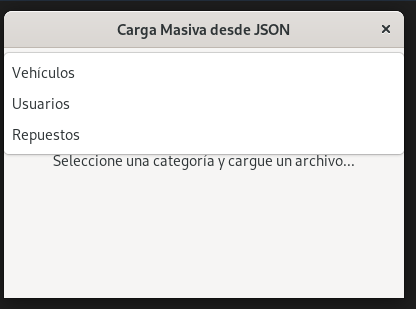
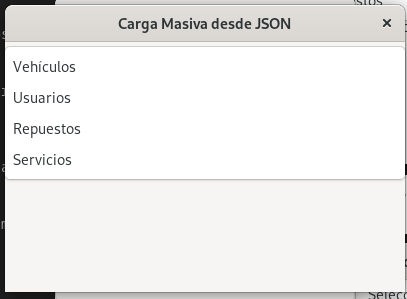
Se agregaron manuales

diff --git a/Fase3/code/structures/tree_binary.cs b/Fase3/code/structures/tree_binary.cs
@@ -127,24 +127,27 @@ namespace code.structures.tree_binary
 
 
 
-        // Método para generar el archivo .dot para Graphviz
+       // Método para generar el archivo .dot para Graphviz en InOrden
         public string GraficarGraphviz()
         {
             StringBuilder sb = new StringBuilder();
             sb.AppendLine("digraph BST {");
             sb.AppendLine("    node [shape=rectangle];");
-            if (raiz != null)
-            {
-                GenerarDotRecursivo(raiz, sb);
-            }
+
+            // Llamar al método recursivo para generar el archivo .dot en InOrden
+            GenerarDotRecursivoInOrden(raiz, sb);
+
             sb.AppendLine("}");
             return sb.ToString();
-        }
+}
 
-        private void GenerarDotRecursivo(Nodo_Servicio nodo, StringBuilder sw)
+        private void GenerarDotRecursivoInOrden(Nodo_Servicio nodo, StringBuilder sw)
         {
             if (nodo != null)
             {
+                // Recorrer el subárbol izquierdo
+                GenerarDotRecursivoInOrden(nodo.Izquierda, sw);
+
                 // Formato del nodo con toda la información
                 string nodoLabel = $"\"{nodo.Id}\" [label=\"Id: {nodo.Id}\\nRepuesto: {nodo.Id_Repuesto}\\nVehiculo: {nodo.Id_Vehiculo}\\nDetalles: {nodo.Detalles}\\nCosto: {nodo.Costo}\"]";
                 sw.AppendLine($"    {nodoLabel};");
@@ -153,13 +156,14 @@ namespace code.structures.tree_binary
                 if (nodo.Izquierda != null)
                 {
                     sw.AppendLine($"    \"{nodo.Id}\" -> \"{nodo.Izquierda.Id}\";");
-                    GenerarDotRecursivo(nodo.Izquierda, sw);
                 }
                 if (nodo.Derecha != null)
                 {
                     sw.AppendLine($"    \"{nodo.Id}\" -> \"{nodo.Derecha.Id}\";");
-                    GenerarDotRecursivo(nodo.Derecha, sw);
                 }
+
+                // Recorrer el subárbol derecho
+                GenerarDotRecursivoInOrden(nodo.Derecha, sw);
             }
         }
 

diff --git a/Fase3/code/interfaces/GestionEntidades.cs b/Fase3/code/interfaces/GestionEntidades.cs
@@ -185,16 +185,18 @@ namespace code.interfaces
         }
         private void MostrarMensajeError(string mensaje)
         {
-            MessageDialog md = new MessageDialog(this, DialogFlags.Modal, MessageType.Error, ButtonsType.Ok, mensaje);
-            md.Run();
-            md.Destroy();
+            using (MessageDialog md = new MessageDialog(this, DialogFlags.Modal, MessageType.Error, ButtonsType.Ok, mensaje))
+            {
+                md.Run();
+            }
         }
 
         private void MostrarMensaje(string mensaje)
         {
-            MessageDialog md = new MessageDialog(this, DialogFlags.Modal, MessageType.Info, ButtonsType.Ok, mensaje);
-            md.Run();
-            md.Destroy();
+            using (MessageDialog md = new MessageDialog(this, DialogFlags.Modal, MessageType.Info, ButtonsType.Ok, mensaje))
+            {
+                md.Run();
+            }
         }
 
         private void LimpiarCampos()

diff --git a/Fase3/Manual tecnico.md b/Fase3/Manual tecnico.md
@@ -77,14 +77,14 @@ Busca el nodo con el ID especificado
 - Es especialmente útil para depuración y visualización de la estructura
 
 
-### Lista Enlazada Simple
+### BlockChain
 
 ## Estructura Básica
 Implementa una **lista enlazada simple** para administrar usuarios con sus datos personales.
 
 ### Componentes Principales
 
-#### 1. Clase `Nodo_Usuario`
+#### 1. Clase `User`
 
 - `Id:`Identificador único
 - `Nombres:` Nombre(s) del usuario
@@ -92,38 +92,62 @@ Implementa una **lista enlazada simple** para administrar usuarios con sus datos
 - `Correo:`  Correo electrónico
 - `Edad :` Edad en años
 - `Contrasenia:` Contraseña del
-- `Nodo_Usuario? Siguiente:` Enlace al siguiente nodo
 
-### 2. Clase ListaEnlazada
+
+### 2. Clase `Block`
+Representa un bloque en la cadena.
+
+Propiedades:
+- `Index`: Número del bloque en la cadena.
+- `Timestamp`: Fecha y hora de creación del bloque.
+- `Data`: Información del usuario en formato JSON.
+- `Nonce`: Número utilizado para la prueba de trabajo.
+- `PreviousHash`: Hash del bloque anterior.
+- `Hash`: Hash único del bloque actual.
+- `Next`: Referencia al siguiente bloque en la cadena.
+
+Métodos:
+
+- `CalculateHash()`: Calcula el hash del bloque usando SHA-256.
+- `MineBlock()`: Realiza la prueba de trabajo para encontrar un hash que comience con "0000".
+
+### 3. Clase `Blockchain`
+
+Representa la cadena de bloques como una lista simplemente enlazada.
+Propiedades:
+- `Head`: Referencia al primer bloque de la cadena.
+
+Métodos principales:
+- `AddBlock()`: Agrega un nuevo bloque a la cadena.
+- `GenerateJson()`: Genera una representación JSON de toda la cadena.
+- `GenerateDot()`: Genera un archivo DOT para visualizar la cadena con Graphviz.
+- `AnalyzeBlockchain()`: Verifica la integridad de la cadena.
+- `Buscar()`: Busca un usuario por ID.
+- `ActualizarUsuario()`: Actualiza los datos de un usuario en la cadena.
+- `ObtenerMaxID()`: Obtiene el ID más alto en la cadena.
+- `ExisteCorreo()`: Verifica si un correo ya existe en la cadena.
+- `ValidarContrasenia()`: Valida la contraseña de un usuario.
+- `BuscarPorCorreo()`: Busca un usuario por correo.
+
 #### Funcionamiento Principal
-**Agregar Usuarios**
+- **Agregar Bloques**:
+Se crea un nuevo bloque con los datos del usuario.
+Si es el primer bloque, se establece como la cabeza de la cadena.
+Si no, se recorre la cadena hasta el último bloque y se enlaza el nuevo bloque.
 
-*Cómo funciona:*
-- Crea un nuevo nodo con los datos
+- **Prueba de Trabajo**:
+Cada bloque realiza una prueba de trabajo para encontrar un hash que comience con "0000".
+Esto asegura la integridad y seguridad de la cadena.
 
-- Si la lista está vacía, lo establece como cabeza
+- **Búsqueda y Actualización**:
+Los usuarios pueden buscarse por ID o correo.
+Los datos de un usuario pueden actualizarse, recalculando los hashes de los bloques afectados.
 
-- Si no, recorre hasta el final y lo añade
+- **Validación de la Cadena**:
+Se verifica que los hashes de los bloques sean válidos y que los enlaces entre bloques sean consistentes.
 
-**Búsquedas**
-
-*Características:*
-
-- Busca por correo (case-insensitive) o por ID
-
-- Retorna el nodo completo o null
-
-- ExisteCorreo devuelve verdadero/falso.
-
-**Eliminar Usuarios**
-
-*Proceso:*
-- Busca el nodo con el ID
-
-- Reconfigura los enlaces:
-
-   Si es la cabeza: mueve la cabeza al siguiente
- Si no: el nodo anterior apunta al siguiente del eliminado
+- **Visualización**:
+La cadena puede representarse en formato JSON o como un grafo DOT para su visualización con Graphviz.
 
 ### Árbol AVL
 
@@ -208,88 +232,71 @@ Casos:
 - ObtenerAltura()	Calcula altura de un nodo
 - ObtenerBalance()	Calcula factor de balanceo (altura izquierda - altura derecha)
 
-### Árbol B
+### ARBOL DE MERKLE
 
 #### Estructura Básica
 Implementa un **árbol B** de orden 5 para almacenar y gestionar facturas con operaciones eficientes de inserción, búsqueda y eliminación.
 
-####  Componentes Principales
+###  Componentes Principales
 
 #### 1. Clase `Factura`
 - `Id`: Identificador único
 - `Id_Servicio`: ID del servicio asociado
 - `Total`:  Monto total de la factura
+- `Fecha`: Fecha de emisión de la factura.
+- `MetodoPago`: Método de pago utilizado.
 
-2. Clase NodoArbolB
+#### 2. Clase `MerkleNode`
 
-    - `List<Factura> Claves:` Facturas almacenadas (máx. 4)
-    - `List<NodoArbolB> Hijos:` Punteros a hijos (máx. 5)
-    - `EsHoja:` Indica si es nodo hoja
-    
-    Métodos auxiliares:
+Representa un nodo en el árbol de Merkle.
 
-    - `public bool EstaLleno()`:  Verifica si tiene 4 claves
-    - `public bool TieneMinimoClaves()`: Verifica si tiene al menos 2 claves.
+Propiedades:
+- `Hash`: Hash del nodo (calculado a partir de los datos o de los hashes de los hijos).
+- `Left`: Referencia al hijo izquierdo.
+- `Right`: Referencia al hijo derecho.
+- `Factura`: Factura asociada (solo para nodos hoja).
 
+Constructores:
+- `Nodo hoja`: Se crea a partir de una factura.
+- `Nodo interno`: Se crea combinando los hashes de los hijos izquierdo y derecho.
+
+Métodos:
+- `CalculateHash()`: Calcula el hash combinado de los hijos izquierdo y derecho.
  
- 3. Clase ArbolB
+#### 3. Clase `MerkleTree`
+Representa el árbol de Merkle completo.
 
-**Operaciones Principales**
+Propiedades:
+- `Leaves`: Lista de nodos hoja (facturas).
+- `Root`: Nodo raíz del árbol.
 
-- **Inserción**
+Métodos principales:
+- `Insert()`: Inserta una nueva factura en el árbol.
+- `BuildTree()`: Reconstruye el árbol a partir de las hojas.
+- `GenerateDot()`: Genera un archivo DOT para visualizar el árbol con Graphviz.
+- `Buscar()`: Busca una factura por su ID.
+- `ObtenerFacturasPorServicios()`: Obtiene facturas asociadas a una lista de IDs de servicios.
+- `Eliminar()`: Elimina una factura por su ID y reconstruye el árbol.
 
- *Proceso:*
+#### Funcionamiento Principal
+- **Inserción de Facturas:**
+Se crea una factura y un nodo hoja con su hash.
+La factura se agrega a la lista de hojas.
+El árbol se reconstruye para actualizar los hashes de los nodos internos y la raíz.
 
-- Si la raíz está llena: Crea nueva raíz.
+- **Construcción del Árbol**:
+A partir de las hojas, se agrupan nodos en pares y se crean nodos internos combinando sus hashes.
+Este proceso se repite hasta que solo queda un nodo, que se convierte en la raíz.
 
-- Divide la raíz actual
+- **Verificación de Integridad**:
+Cada nodo contiene un hash que depende de sus hijos. Si los datos de una factura cambian, el hash de la raíz también cambia, lo que permite detectar modificaciones.
 
-- Inserta recursivamente manteniendo el orden
+- **Búsqueda y Eliminación:**
+Las facturas pueden buscarse por su ID recorriendo la lista de hojas.
+Para eliminar una factura, se elimina su nodo hoja y se reconstruye el árbol.
 
-*Características:*
-
-- Complejidad: O(log n)
-
-Auto-balanceante
-- **Búsqueda**
- *Funcionamiento:*
-
-- Búsqueda binaria dentro de cada nodo
-
-- Recorre hacia abajo según comparación de IDs
-
-Retorna null si no exist
-- **Eliminación**
-*Estrategias:*
-
-- Hoja: Remoción directa si no viola invariantes
-
-- Nodo interno:
-
-- Reemplaza con predecesor/sucesor
-
-- Fusiona nodos si es necesario
-
-*Casos especiales:*
-
-- Préstamo de claves a hermanos
-
-- Fusión de nodos
-
-##### Recorridos del Árbol
-| Método | Orden | Utilidad |
-|-----------|-----------|-----------|
-| RecorridoInOrden() | ID ascendente| Reportes ordenados |
-| ObtenerFacturasPorServicios() | Personalizado| Consultas específicas|
-
-#### Rotaciones y balanceo
-
-| Metodo | Funcion |
-|-----------|-----------|
-| DividirHijo()| Divide nodos llenos|
-| TomaPrestadoDelAnterior() | Rota claves desde hermano izquierdo |
-| TomaPrestadoDelSiguiente() | Rota claves desde hermano derecho |
-| TomaPrestadoDelSiguiente()| Combina nodos con pocas claves |
+- **Visualización:**
+El árbol puede representarse en formato DOT para su visualización con Graphviz. Los nodos muestran información como el ID de la factura, el total y el hash.
 
 ### Árbol Binario de Búsqueda 
 

diff --git a/Fase3/Manual de Usuario.md b/Fase3/Manual de Usuario.md
@@ -18,9 +18,14 @@ Está es la ventana principal, se te muestra un mensaje de bienvenida y se ven l
 
 ![Texto alternativo](/img/serviU.png)
 
+- Ver tus vehiculos: Aqui podras observar los vehiculos que posees.
+
+![Texto alternativo](/img/carros.png)
+
 - Ver Facuturas: Aquí podrás observar las facturas que tienes pendientes de pagar.
 
 ![Texto alternativo](/img/FactuUser.png)
+
 - Eliminar Facturas: Aquí podrás cancelar tus facturas e igualmente observarlas con el botón de buscar para verificar que esa es la que quieres cancelar.
 
 ![Texto alternativo](/img/EliminarFac.png)
@@ -34,13 +39,13 @@ Esta es la ventana que se muestra al iniciar sesión con el admin y se ven las s
 - Carga Masiva:
 Permite hacer una carga masiva de datos de usuarios, vehiculos y repuestos mediante un archivo JSON.
 ![Texto alternativo](/img/Carga.png)
-- Gestion de identidades: Aquí podrás ver los usuarios y vehiculos, así como eliminarlos.
+- Gestion de identidades: Aquí podrás ver los usuarios y agregar nuevos.
 ![Texto alternativo](/img/editU.png)
 ![Texto alternativo](/img/editU2.png)
 - Actualización de Repuestos: Aquí podrás actualizar el repuesto mediante el ID.
 ![Texto alternativo](/img/actualizar.png)
 - Generar Servicios: Aquí podrás generar sevicios mediante el ID del usuario, del repuesto y del vehiculo.
-![Texto alternativo](/img/Servcicio.png)
+![Texto alternativo](/img/Servicio.png)
 - Visualizar Repuestos: Aqui podras visualizar los respuestos en distinos ordenes (InOrder, PreOrder, PostOrder).
 ![Texto alternativo](/img/Repuestos.png)
 
